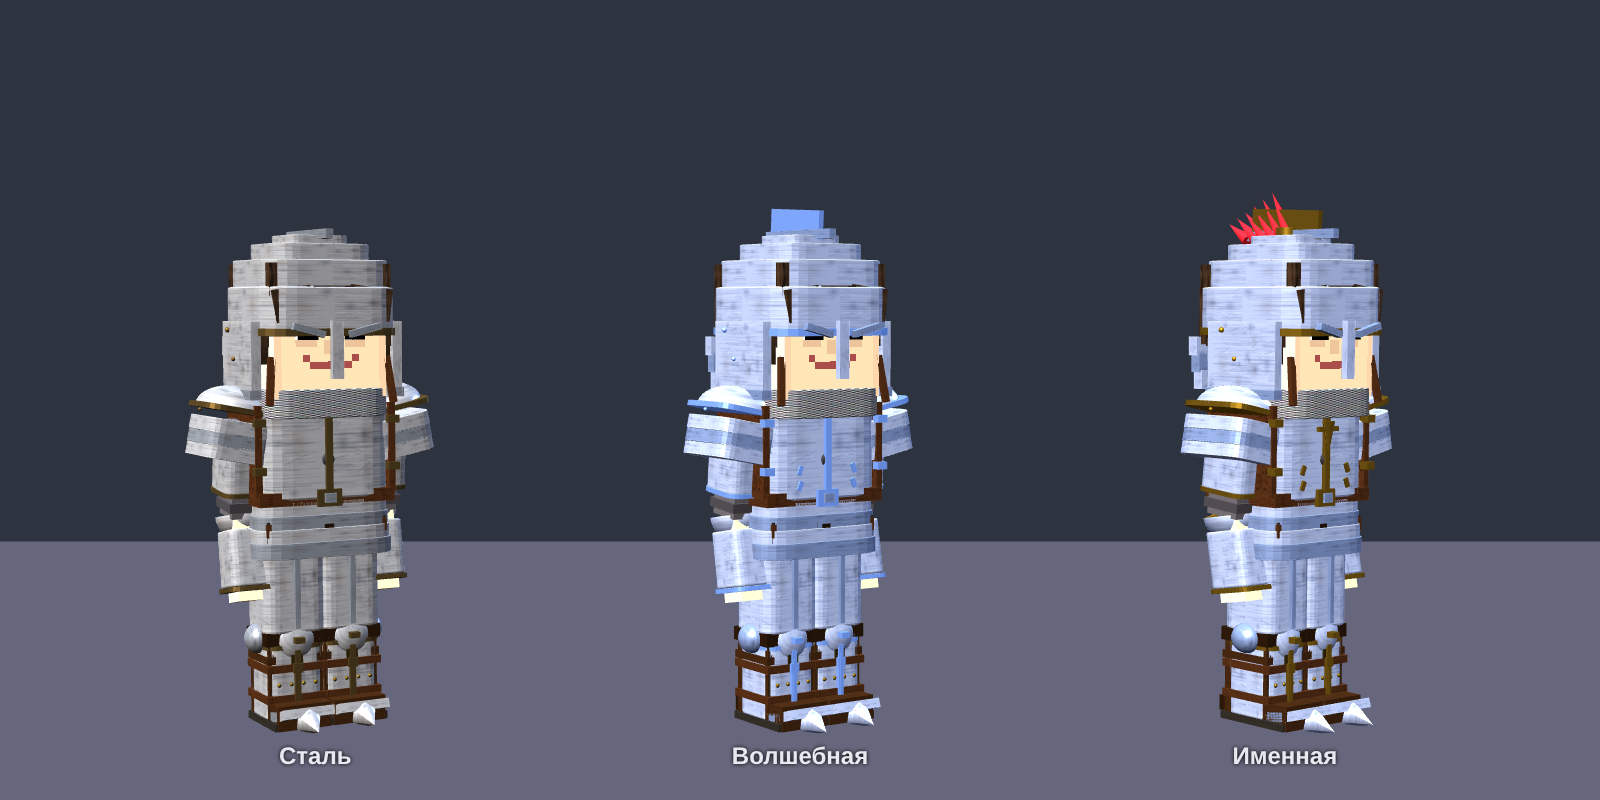
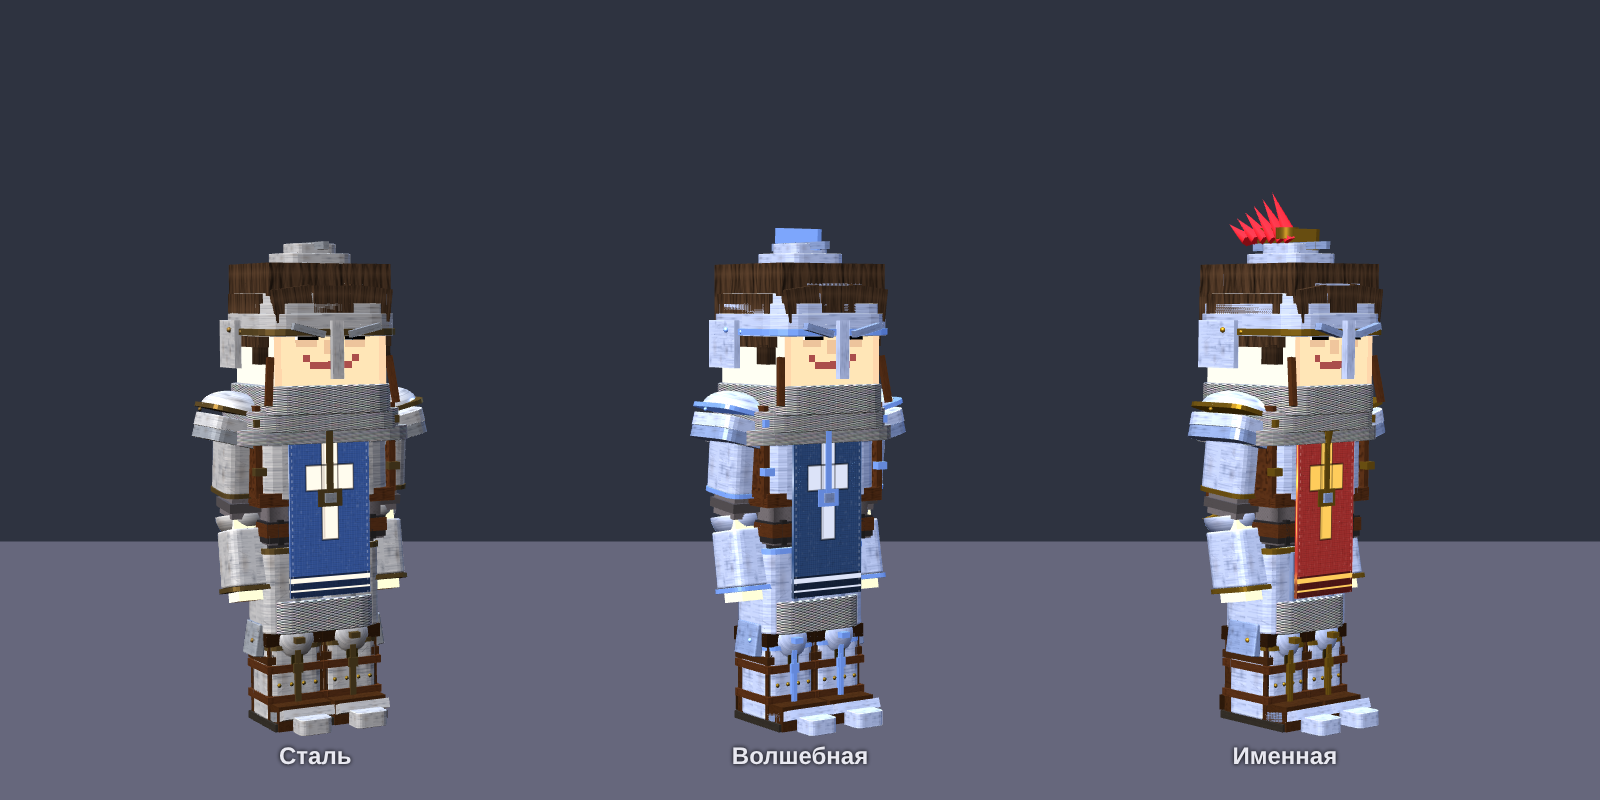
Броня (превью): купол шлема накрывает волосы

diff --git a/src/entities/KnightArmorLook.js b/src/entities/KnightArmorLook.js
@@ -134,7 +134,7 @@ export function helmetParts(p, code, list, dk = false) {
     const s = steel(code, dk), d = darkSteel(code, dk), t = trim(code, dk), ml = mail(dk), lt = strap(), rm = rivetMat(code, dk);
     const rb = (m, w, h, dd, x, y, z, rx, ry, rz) => put(p, RBOX(), m, list, x, y, z, w, h, dd, rx, ry, rz);
     // the skull: a smooth bascinet — many thin rounded layers make one round dome over the box head; a brow band with rivets all round
-    const W = [1.46, 1.46, 1.42, 1.36, 1.26, 1.12, 0.94, 0.72, 0.46];
+    const W = [1.48, 1.48, 1.48, 1.46, 1.44, 1.4, 1.32, 1.2, 1.0, 0.7]; // (wide to the top: it covers the hair slab, 1.3 wide at the crown)
     W.forEach((w, i) => rb(s, w, 0.13, w, 0, 0.1 + i * 0.105, 0));
     rb(t, 1.5, 0.07, 1.5, 0, 0.08, 0);
     for (let i = 0; i < 12; i++) { const a = i / 12 * Math.PI * 2; rivet(p, rm, list, 0.045, Math.cos(a) * 0.74, 0.08, Math.sin(a) * 0.74); }
